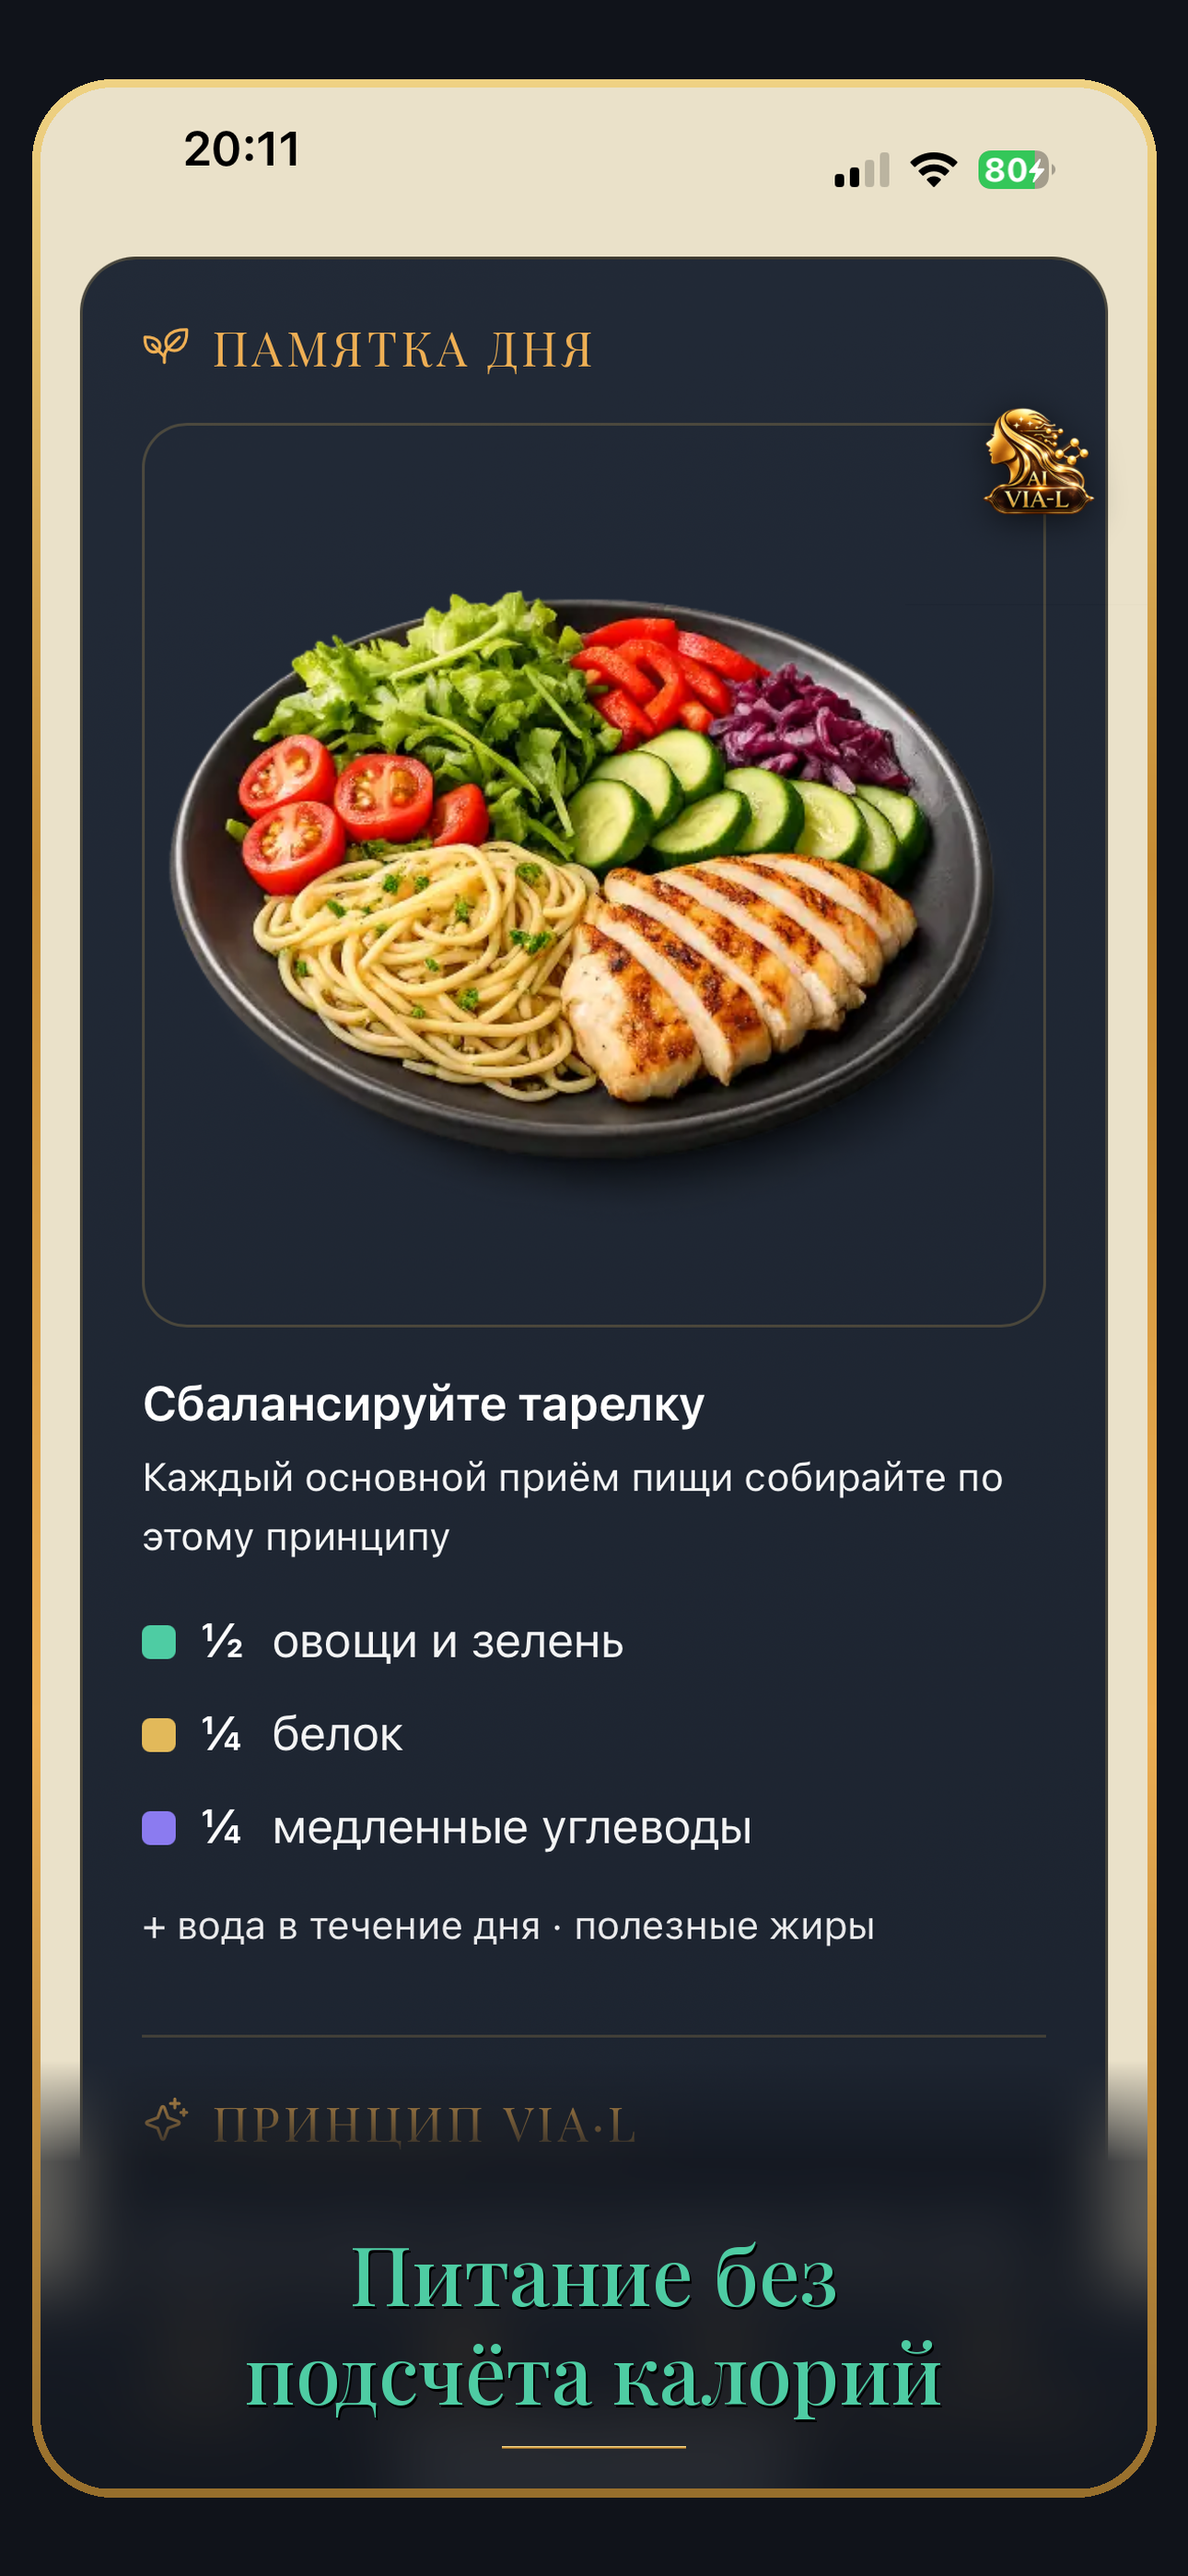
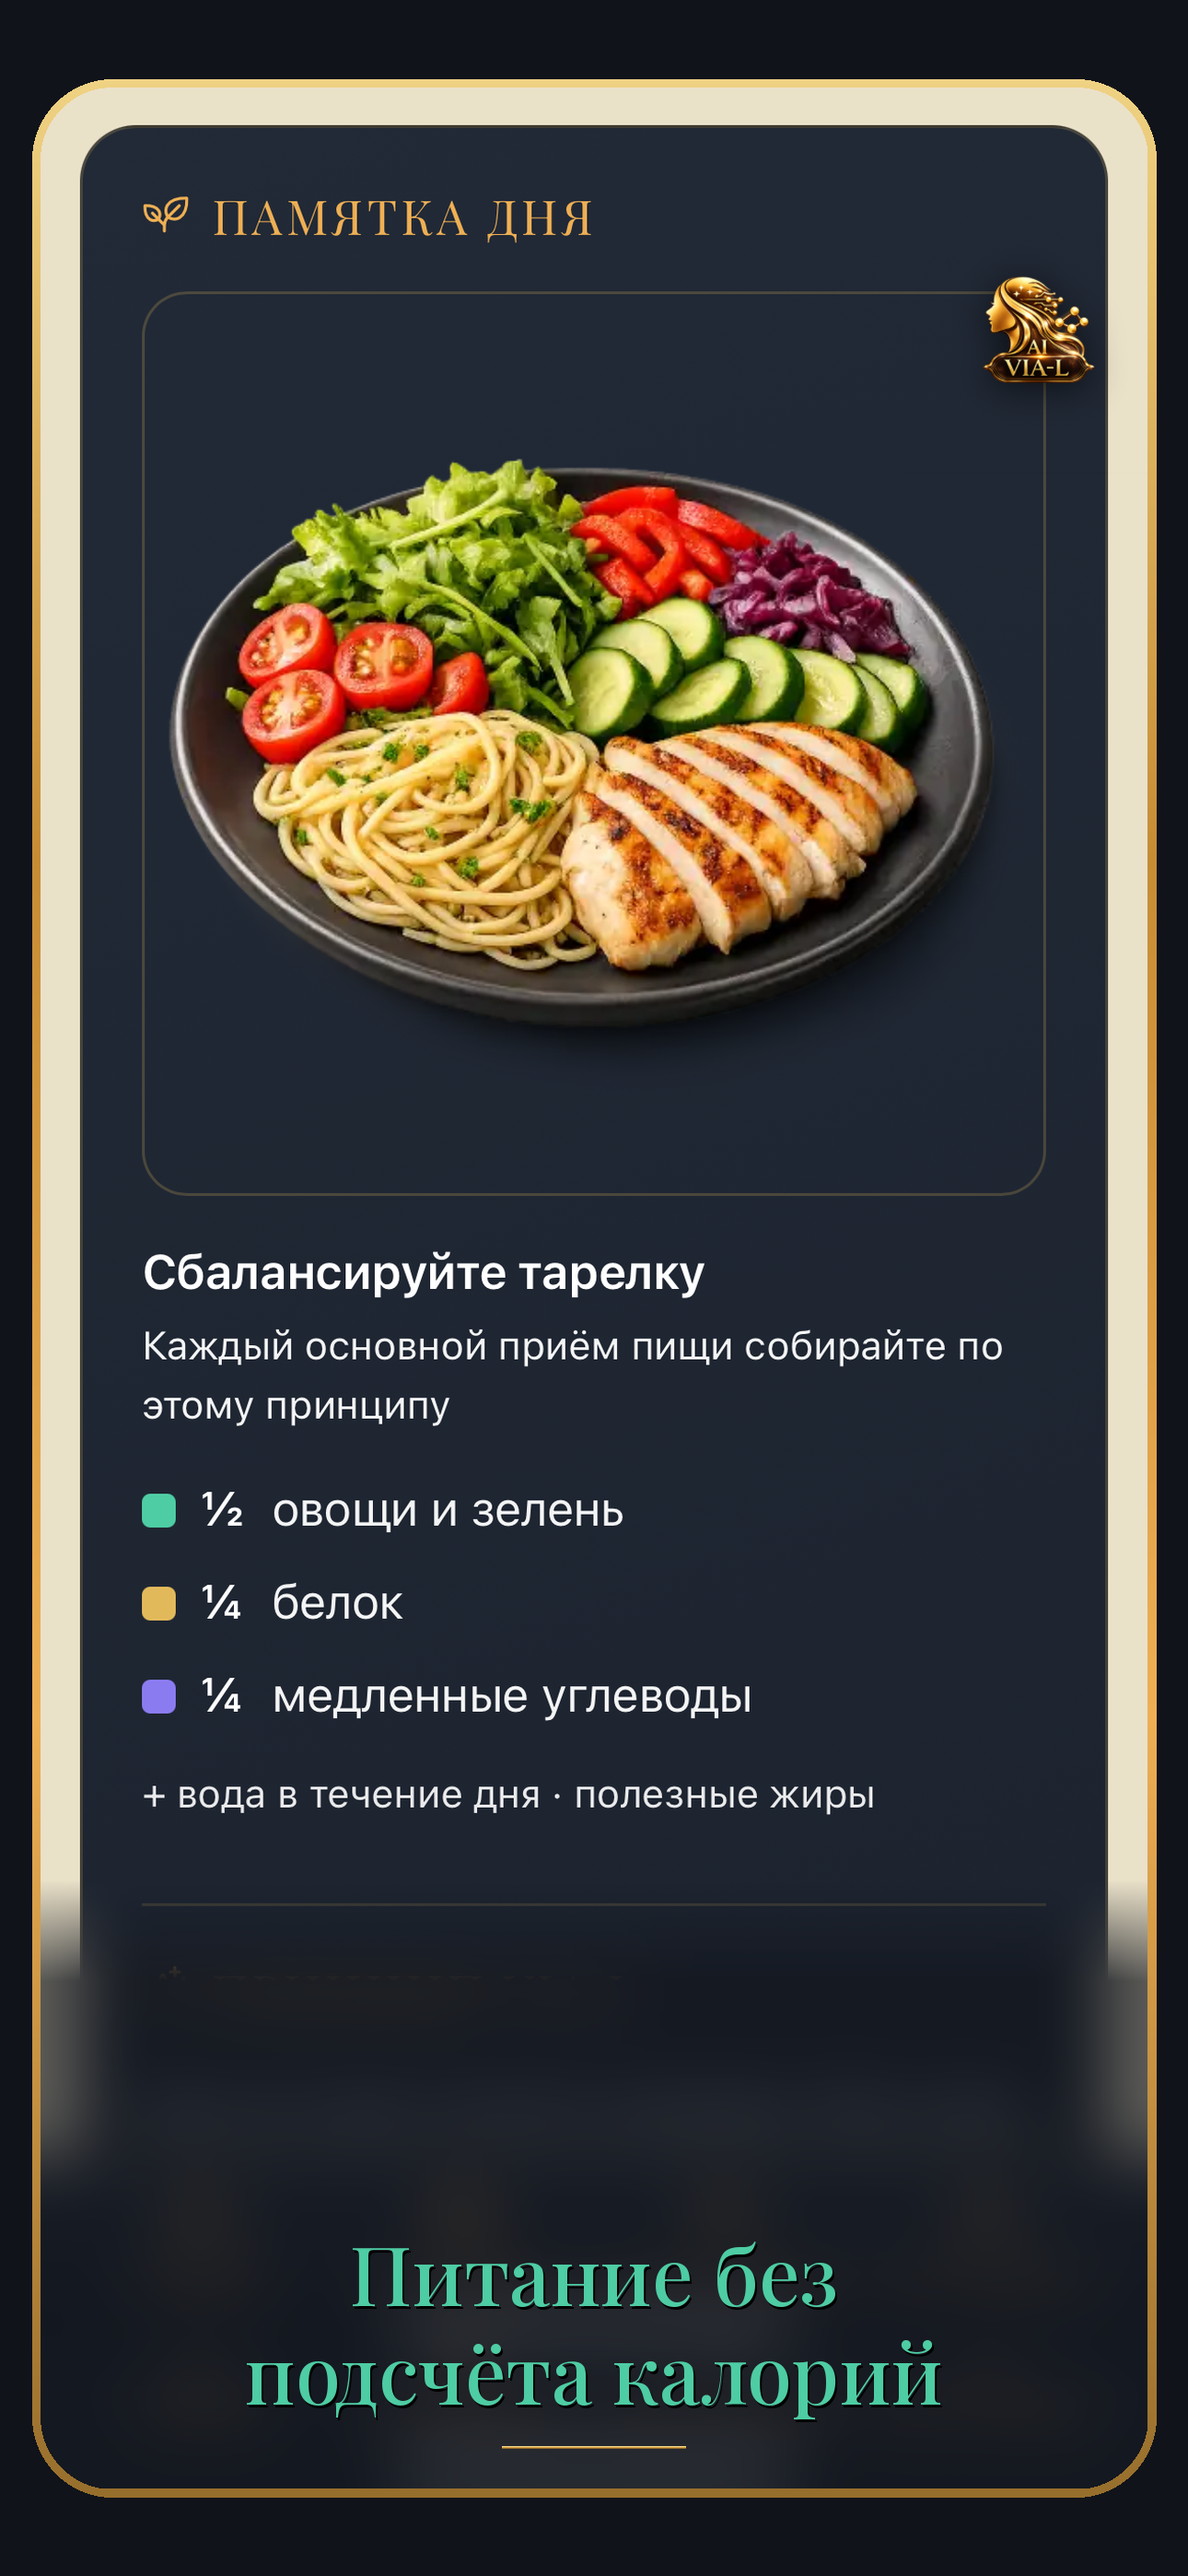
App Store uk/ru: 01–07 (ru 02–07) пересобраны в новом стиле — часы срезаны, туман там, где свободно, блоки не режутся; нижняя подпись на одной высоте

diff --git a/app/scripts/compose-store-shot.py b/app/scripts/compose-store-shot.py
@@ -59,7 +59,7 @@ def compose(src, caption, out, where='top', band=None, patch=None):
         y = y0 + i if where == 'top' else sh - 1 - i
         md.line((0, y, sw, y), fill=a)
     im = Image.composite(dark, im, mask); d = ImageDraw.Draw(im)
-    ty = ((round(status_sb * sw / 1179) + 80) // 2 + 34) if status_sb else (y0 + (bh - fade - th) // 2 + 20) if where == 'top' else (sh - (bh - fade) + (bh - fade - th) // 2 - 10)
+    ty = ((round(status_sb * sw / 1179) + 80) // 2 + 34) if status_sb else (y0 + (bh - fade - th) // 2 + 20) if where == 'top' else (sh - th - 80)
     for l in lines:
         w = d.textlength(l, font=f)
         d.text(((sw - w) / 2 + 2, ty + 3), l, font=f, fill=(0, 0, 0))          # лёгкая тень для читаемости
